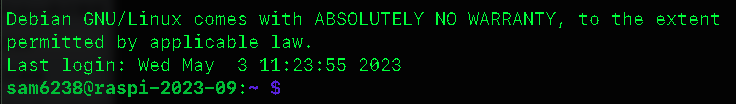
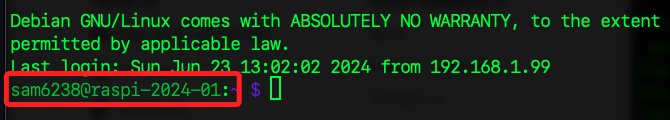
sss

Changed region(s): [[0.0, 0.2885, 0.8358, 0.9231], [0.0, 0.0865, 0.9851, 0.2596]]

diff --git a/D01_樹莓派+Linux/1_樹莓派基本操作/02_第一次啟動.md b/D01_樹莓派+Linux/1_樹莓派基本操作/02_第一次啟動.md
@@ -36,7 +36,7 @@ _第一次啟動後先使用 `終端機` 進行連線_
 
 <br>
 
-2. 若是第一次進行連線，_可能_ 會被問到是否要繼續，輸入 `yes` 即可。
+2. 若是第一次進行連線，會被問到是否要繼續，輸入 `yes` 即可；假如連線時未被問及是否連線，代表本機連線紀錄文件中已存在這個連線。
 
     ![](images/img_01.png)
 
@@ -48,17 +48,19 @@ _第一次啟動後先使用 `終端機` 進行連線_
 
 <br>
 
-4. 完成連線畫面。
+4. 完成連線畫面，其中 `sam6238` 是連線帳號、`raspi-2024-01` 是主機名稱、`192.168.1.99` 是連入者的 IP。
 
     ![](images/img_03.png)
 
 <br>
 
-5. 退出連線，將終端機返回本地電腦。
+5. 若要退出連線可執行 `exit` 指令，並將終端機返回本地電腦路徑。
 
     ```bash
     exit
     ```
+
+    ![](images/img_40.png)
 
 <br>
 
